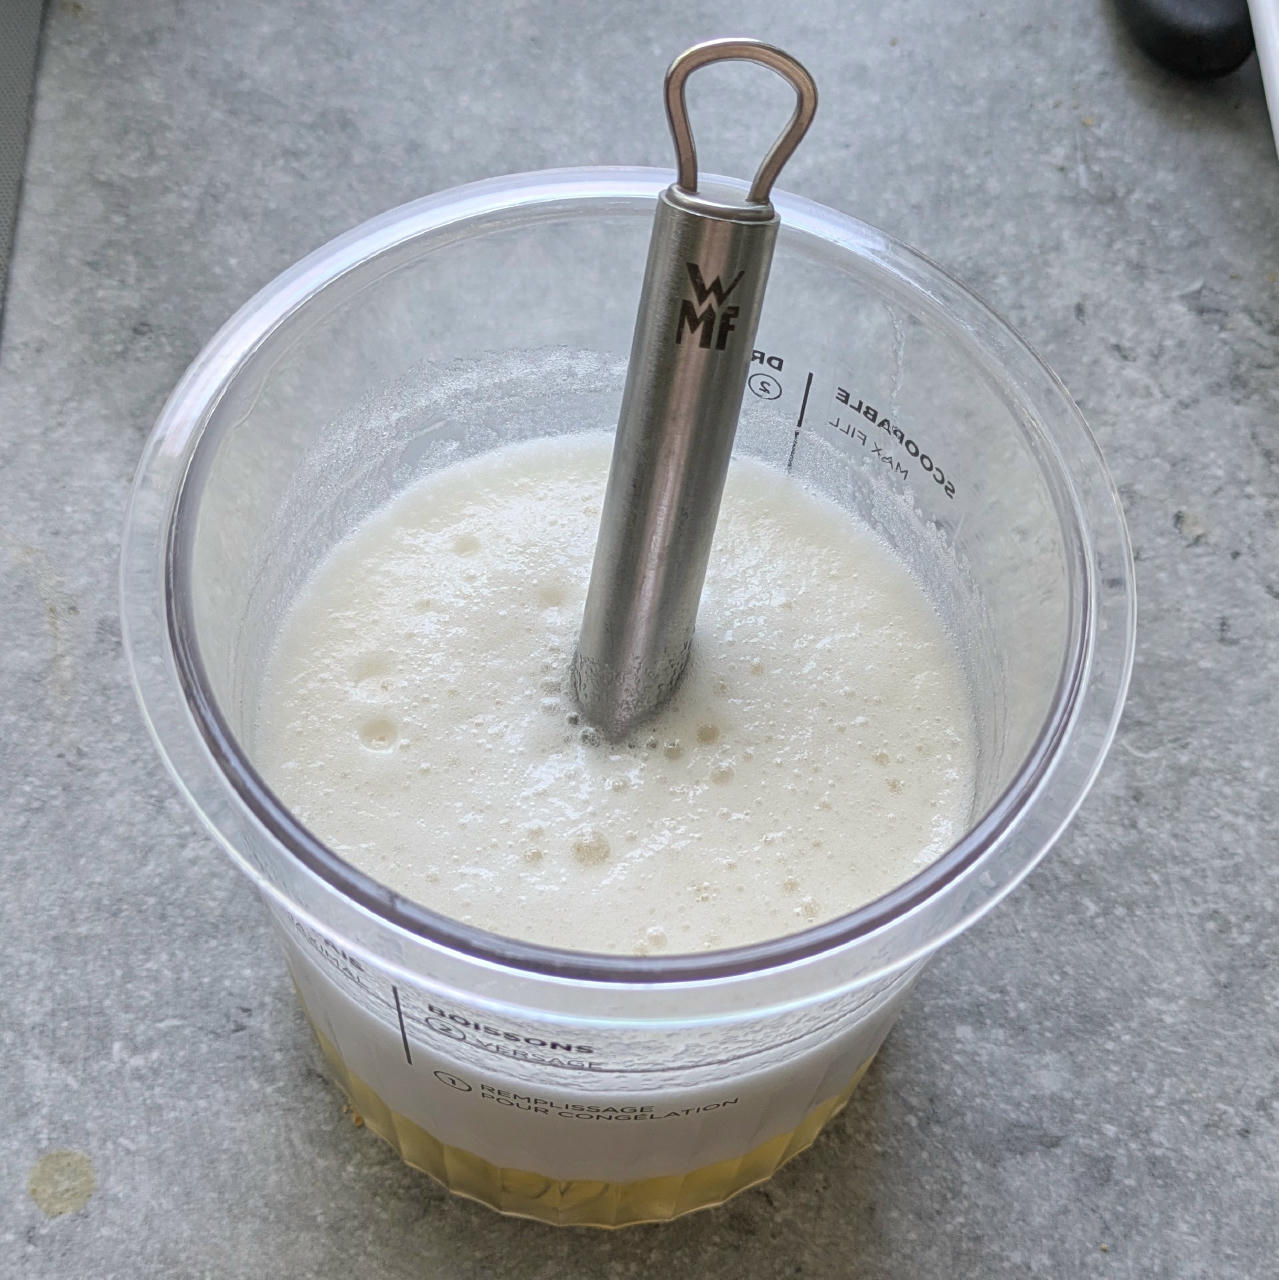
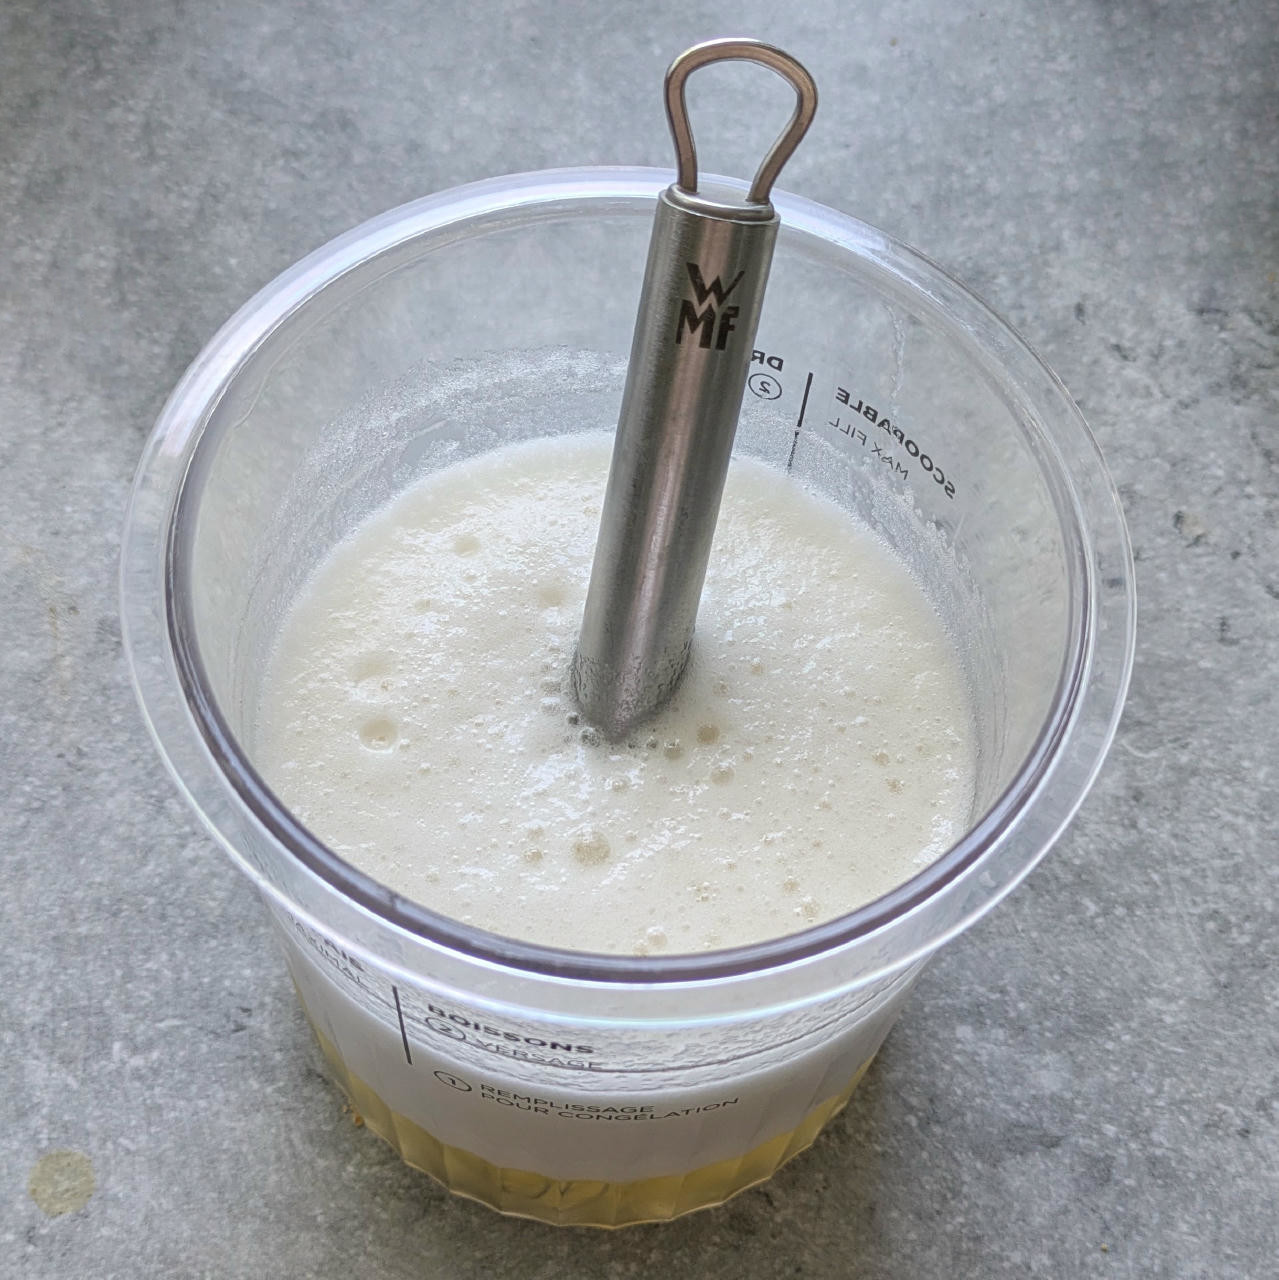
added more solids

diff --git a/recipes/Radler Zäpfle (Deluxe)/README.md b/recipes/Radler Zäpfle (Deluxe)/README.md
@@ -10,6 +10,7 @@ excluded_tags:
 tags:
 - Dairy-Free
 - Draft
+- Hi-Protein
 - Light
 - Low-Fat
 - Low-Sugar
@@ -58,9 +59,10 @@ Rating: 😋🍺🍺🍋🍋
 
 **Dry**
 
-  - _10g_ [Inulin \[Vit4ever\]](/ice-creamery/info/ingredients/#inulin){target="_blank"}<sup>↗</sup> • Sweetness = 8%; GI ~= 0
-  - _1g_ [Xanthan gum (E415, XG)](/ice-creamery/info/ingredients/#xanthan-gum-xg-e415){target="_blank"}<sup>↗</sup> • 1tsp ≈ 2.8g
+  - _15g_ [Inulin \[Vit4ever\]](/ice-creamery/info/ingredients/#inulin){target="_blank"}<sup>↗</sup> • Sweetness = 8%; GI ~= 0
+  - _15g_ [Soy protein isolate (nature) \[Powerstar\]](/ice-creamery/info/ingredients/#soy-protein-isolate){target="_blank"}<sup>↗</sup> • 1kg bag, unsweetened, unflavored
   - _1g_ Salt
+  - _1g_ [Xanthan gum (E415, XG)](/ice-creamery/info/ingredients/#xanthan-gum-xg-e415){target="_blank"}<sup>↗</sup> • 1tsp ≈ 2.8g
 
 **Mix-ins**
 
@@ -82,10 +84,11 @@ Rating: 😋🍺🍺🍋🍋
  1. Process with MIX-IN after adding mix-ins evenly. For that, add partial amounts into a hole going down to the bottom, and fold the ice cream over, building pockets of mix-ins.
 
 # NUTRITIONAL & OTHER INFO
-- **Nutritional values per 100g/ml:** 100g; 49.4 kcal; fat 0.5g; carbs 10.6g; sugar 4.6g; protein 0.0g; salt 0.3g
-- **Nutritional values per ½ Deluxe Tub:** 360g; 177.9 kcal; fat 1.7g; carbs 38.0g; sugar 16.7g; protein 0.1g; salt 1.0g
-- **Nutritional values total:** 362g; 178.9 kcal; fat 1.7g; carbs 38.2g; sugar 16.8g; protein 0.1g; salt 1.0g
-- **FPDF / [PAC](/ice-creamery/info/glossary/#potere-anti-congelante-pac){target="_blank"}<sup>↗</sup> (target 20..30):** 30.98
-- **Protein / Energy Ratio (ok=12%; hi=20%):** 0.20% • LOW-FAT • Low-Sugar
-- **Milk Solids Non-Fat ([MSNF](/ice-creamery/info/glossary/#milk-solids-not-fat-msnf){target="_blank"}<sup>↗</sup>, 7-11%):** 0.0g • 0.0%
-- **Net carbs:** 24.3g • *∝ 5 servings@72g:* 4.9g • *∝ 3 servings@121g:* 8.1g
+- **Nutritional values per 100g/ml:** 100g; 64.2 kcal; fat 0.5g; carbs 11.3g; sugar 4.5g; protein 3.5g; salt 0.4g
+- **Nutritional values per ½ Deluxe Tub:** 360g; 231.1 kcal; fat 1.7g; carbs 40.7g; sugar 16.2g; protein 12.8g; salt 1.3g
+- **Nutritional values total:** 382g; 245.2 kcal; fat 1.8g; carbs 43.2g; sugar 17.2g; protein 13.6g; salt 1.4g
+- **FPDF / [PAC](/ice-creamery/info/glossary/#potere-anti-congelante-pac){target="_blank"}<sup>↗</sup> (target 20..30):** 30.07
+- **Protein / Energy Ratio (ok=12%; hi=20%):** 22.12% • LOW-FAT • Low-Sugar • Hi-Protein
+- **Milk Solids Non-Fat ([MSNF](/ice-creamery/info/glossary/#milk-solids-not-fat-msnf){target="_blank"}<sup>↗</sup>, 7-11%):** 14.0g • 3.7%
+- **Net carbs:** 24.9g • *∝ 5 servings@76g:* 5g • *∝ 3 servings@127g:* 8.3g
+- **Jul 5, 2025:** Added more solids
